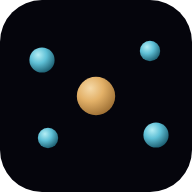
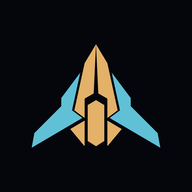
Replace five-point mark with the vessel symbol across the site
New primary mark (geometric top-down ship, turquoise wings, copper hull),
validated by David 2026-09-29. Nav logo swapped on all 7 pages (flat vector,
pixel-identical to the approved SVG); unused dimensional gradient defs removed.
Regenerated favicon.ico (16/32/48), favicon-mark.svg, apple-touch-icon,
icon-192/512 from the same SVG. og-image.png rebuilt too: it still showed the
old violet five dots and the retired "Full-Context Automation Software" line.

diff --git a/about.html b/about.html
@@ -16,24 +16,6 @@
 <link rel="manifest" href="/site.webmanifest">
 </head>
 <body>
-<svg width="0" height="0" style="position:absolute" aria-hidden="true"><defs>
-<radialGradient id="dim-ion" cx="35%" cy="30%" r="75%">
-<stop offset="0%" stop-color="#B4EEF5"/>
-<stop offset="45%" stop-color="#5FC0D6"/>
-<stop offset="100%" stop-color="#1B5C6E"/>
-</radialGradient>
-<radialGradient id="dim-flare" cx="35%" cy="30%" r="75%">
-<stop offset="0%" stop-color="#F5D9A8"/>
-<stop offset="45%" stop-color="#E3B168"/>
-<stop offset="100%" stop-color="#9C6E33"/>
-</radialGradient>
-<filter id="mark-shadow" x="-80%" y="-80%" width="260%" height="260%">
-<feDropShadow dx="0" dy="0.45" stdDeviation="0.5" flood-color="#000000" flood-opacity="0.55"/>
-</filter>
-<filter id="mark-shadow-lg" x="-80%" y="-80%" width="260%" height="260%">
-<feDropShadow dx="0" dy="0.7" stdDeviation="0.8" flood-color="#000000" flood-opacity="0.6"/>
-</filter>
-</defs></svg>
 
 
 
@@ -769,7 +751,7 @@ footer.site .manifesto-link:hover{ color:var(--flare); border-color:var(--flare)
 
 <header class="nav">
   <div class="wrap">
-    <a href="/" class="brand"><svg class="mark" width="18" height="18" viewBox="0 0 32 32" aria-hidden="true"><g fill="url(#dim-ion)" filter="url(#mark-shadow)"><circle cx="7" cy="10" r="2.1"/><circle cx="25" cy="8.5" r="1.7"/><circle cx="8" cy="23" r="1.7"/><circle cx="26" cy="22.5" r="2.1"/></g><circle cx="16" cy="16" r="3.2" fill="url(#dim-flare)" filter="url(#mark-shadow-lg)"/></svg><span>CypherShip<span style="color:var(--text-2)"> Labs</span></span></a>
+    <a href="/" class="brand"><svg class="mark" width="18" height="18" viewBox="177 49 900 900" aria-hidden="true"><path fill="#5FC0D6" d="M524.47 347 401 512 401 565 226 740 208 836 538 642 471 592Z"/><path fill="#5FC0D6" d="M729.53 347 853 512 853 565 1028 740 1046 836 716 642 783 592Z"/><path fill="#E3B168" d="M627 162 553 285 486 592 553 642 553 516 612 482Z"/><path fill="#E3B168" d="M627 162 701 285 768 592 701 642 701 516 642 482Z"/><path fill="#E3B168" d="M627 526 681 558 681 792 627 826 573 792 573 558Z"/><path fill="#E3B168" d="M553 659 459.44 714 553 826Z"/><path fill="#E3B168" d="M701 659 794.56 714 701 826Z"/></svg><span>CypherShip<span style="color:var(--text-2)"> Labs</span></span></a>
     <nav class="links">
       <a href="/">Home</a>
       <a href="/products.html">CypherShip Fleet</a>

diff --git a/agentic.html b/agentic.html
@@ -16,24 +16,6 @@
 <link rel="manifest" href="/site.webmanifest">
 </head>
 <body>
-<svg width="0" height="0" style="position:absolute" aria-hidden="true"><defs>
-<radialGradient id="dim-ion" cx="35%" cy="30%" r="75%">
-<stop offset="0%" stop-color="#B4EEF5"/>
-<stop offset="45%" stop-color="#5FC0D6"/>
-<stop offset="100%" stop-color="#1B5C6E"/>
-</radialGradient>
-<radialGradient id="dim-flare" cx="35%" cy="30%" r="75%">
-<stop offset="0%" stop-color="#F5D9A8"/>
-<stop offset="45%" stop-color="#E3B168"/>
-<stop offset="100%" stop-color="#9C6E33"/>
-</radialGradient>
-<filter id="mark-shadow" x="-80%" y="-80%" width="260%" height="260%">
-<feDropShadow dx="0" dy="0.45" stdDeviation="0.5" flood-color="#000000" flood-opacity="0.55"/>
-</filter>
-<filter id="mark-shadow-lg" x="-80%" y="-80%" width="260%" height="260%">
-<feDropShadow dx="0" dy="0.7" stdDeviation="0.8" flood-color="#000000" flood-opacity="0.6"/>
-</filter>
-</defs></svg>
 
 
 
@@ -804,7 +786,7 @@ footer.site .manifesto-link:hover{ color:var(--flare); border-color:var(--flare)
 
 <header class="nav">
   <div class="wrap">
-    <a href="/" class="brand"><svg class="mark" width="18" height="18" viewBox="0 0 32 32" aria-hidden="true"><g fill="url(#dim-ion)" filter="url(#mark-shadow)"><circle cx="7" cy="10" r="2.1"/><circle cx="25" cy="8.5" r="1.7"/><circle cx="8" cy="23" r="1.7"/><circle cx="26" cy="22.5" r="2.1"/></g><circle cx="16" cy="16" r="3.2" fill="url(#dim-flare)" filter="url(#mark-shadow-lg)"/></svg><span>CypherShip<span style="color:var(--text-2)"> Labs</span></span></a>
+    <a href="/" class="brand"><svg class="mark" width="18" height="18" viewBox="177 49 900 900" aria-hidden="true"><path fill="#5FC0D6" d="M524.47 347 401 512 401 565 226 740 208 836 538 642 471 592Z"/><path fill="#5FC0D6" d="M729.53 347 853 512 853 565 1028 740 1046 836 716 642 783 592Z"/><path fill="#E3B168" d="M627 162 553 285 486 592 553 642 553 516 612 482Z"/><path fill="#E3B168" d="M627 162 701 285 768 592 701 642 701 516 642 482Z"/><path fill="#E3B168" d="M627 526 681 558 681 792 627 826 573 792 573 558Z"/><path fill="#E3B168" d="M553 659 459.44 714 553 826Z"/><path fill="#E3B168" d="M701 659 794.56 714 701 826Z"/></svg><span>CypherShip<span style="color:var(--text-2)"> Labs</span></span></a>
     <nav class="links">
       <a href="/">Home</a>
       <a href="/products.html">CypherShip Fleet</a>

diff --git a/contact.html b/contact.html
@@ -16,24 +16,6 @@
 <link rel="manifest" href="/site.webmanifest">
 </head>
 <body>
-<svg width="0" height="0" style="position:absolute" aria-hidden="true"><defs>
-<radialGradient id="dim-ion" cx="35%" cy="30%" r="75%">
-<stop offset="0%" stop-color="#B4EEF5"/>
-<stop offset="45%" stop-color="#5FC0D6"/>
-<stop offset="100%" stop-color="#1B5C6E"/>
-</radialGradient>
-<radialGradient id="dim-flare" cx="35%" cy="30%" r="75%">
-<stop offset="0%" stop-color="#F5D9A8"/>
-<stop offset="45%" stop-color="#E3B168"/>
-<stop offset="100%" stop-color="#9C6E33"/>
-</radialGradient>
-<filter id="mark-shadow" x="-80%" y="-80%" width="260%" height="260%">
-<feDropShadow dx="0" dy="0.45" stdDeviation="0.5" flood-color="#000000" flood-opacity="0.55"/>
-</filter>
-<filter id="mark-shadow-lg" x="-80%" y="-80%" width="260%" height="260%">
-<feDropShadow dx="0" dy="0.7" stdDeviation="0.8" flood-color="#000000" flood-opacity="0.6"/>
-</filter>
-</defs></svg>
 
 
 
@@ -760,7 +742,7 @@ footer.site .manifesto-link:hover{ color:var(--flare); border-color:var(--flare)
 
 <header class="nav">
   <div class="wrap">
-    <a href="/" class="brand"><svg class="mark" width="18" height="18" viewBox="0 0 32 32" aria-hidden="true"><g fill="url(#dim-ion)" filter="url(#mark-shadow)"><circle cx="7" cy="10" r="2.1"/><circle cx="25" cy="8.5" r="1.7"/><circle cx="8" cy="23" r="1.7"/><circle cx="26" cy="22.5" r="2.1"/></g><circle cx="16" cy="16" r="3.2" fill="url(#dim-flare)" filter="url(#mark-shadow-lg)"/></svg><span>CypherShip<span style="color:var(--text-2)"> Labs</span></span></a>
+    <a href="/" class="brand"><svg class="mark" width="18" height="18" viewBox="177 49 900 900" aria-hidden="true"><path fill="#5FC0D6" d="M524.47 347 401 512 401 565 226 740 208 836 538 642 471 592Z"/><path fill="#5FC0D6" d="M729.53 347 853 512 853 565 1028 740 1046 836 716 642 783 592Z"/><path fill="#E3B168" d="M627 162 553 285 486 592 553 642 553 516 612 482Z"/><path fill="#E3B168" d="M627 162 701 285 768 592 701 642 701 516 642 482Z"/><path fill="#E3B168" d="M627 526 681 558 681 792 627 826 573 792 573 558Z"/><path fill="#E3B168" d="M553 659 459.44 714 553 826Z"/><path fill="#E3B168" d="M701 659 794.56 714 701 826Z"/></svg><span>CypherShip<span style="color:var(--text-2)"> Labs</span></span></a>
     <nav class="links">
       <a href="/">Home</a>
       <a href="/products.html">CypherShip Fleet</a>

diff --git a/legal.html b/legal.html
@@ -16,24 +16,6 @@
 <link rel="manifest" href="/site.webmanifest">
 </head>
 <body>
-<svg width="0" height="0" style="position:absolute" aria-hidden="true"><defs>
-<radialGradient id="dim-ion" cx="35%" cy="30%" r="75%">
-<stop offset="0%" stop-color="#B4EEF5"/>
-<stop offset="45%" stop-color="#5FC0D6"/>
-<stop offset="100%" stop-color="#1B5C6E"/>
-</radialGradient>
-<radialGradient id="dim-flare" cx="35%" cy="30%" r="75%">
-<stop offset="0%" stop-color="#F5D9A8"/>
-<stop offset="45%" stop-color="#E3B168"/>
-<stop offset="100%" stop-color="#9C6E33"/>
-</radialGradient>
-<filter id="mark-shadow" x="-80%" y="-80%" width="260%" height="260%">
-<feDropShadow dx="0" dy="0.45" stdDeviation="0.5" flood-color="#000000" flood-opacity="0.55"/>
-</filter>
-<filter id="mark-shadow-lg" x="-80%" y="-80%" width="260%" height="260%">
-<feDropShadow dx="0" dy="0.7" stdDeviation="0.8" flood-color="#000000" flood-opacity="0.6"/>
-</filter>
-</defs></svg>
 
 
 
@@ -760,7 +742,7 @@ footer.site .manifesto-link:hover{ color:var(--flare); border-color:var(--flare)
 
 <header class="nav">
   <div class="wrap">
-    <a href="/" class="brand"><svg class="mark" width="18" height="18" viewBox="0 0 32 32" aria-hidden="true"><g fill="url(#dim-ion)" filter="url(#mark-shadow)"><circle cx="7" cy="10" r="2.1"/><circle cx="25" cy="8.5" r="1.7"/><circle cx="8" cy="23" r="1.7"/><circle cx="26" cy="22.5" r="2.1"/></g><circle cx="16" cy="16" r="3.2" fill="url(#dim-flare)" filter="url(#mark-shadow-lg)"/></svg><span>CypherShip<span style="color:var(--text-2)"> Labs</span></span></a>
+    <a href="/" class="brand"><svg class="mark" width="18" height="18" viewBox="177 49 900 900" aria-hidden="true"><path fill="#5FC0D6" d="M524.47 347 401 512 401 565 226 740 208 836 538 642 471 592Z"/><path fill="#5FC0D6" d="M729.53 347 853 512 853 565 1028 740 1046 836 716 642 783 592Z"/><path fill="#E3B168" d="M627 162 553 285 486 592 553 642 553 516 612 482Z"/><path fill="#E3B168" d="M627 162 701 285 768 592 701 642 701 516 642 482Z"/><path fill="#E3B168" d="M627 526 681 558 681 792 627 826 573 792 573 558Z"/><path fill="#E3B168" d="M553 659 459.44 714 553 826Z"/><path fill="#E3B168" d="M701 659 794.56 714 701 826Z"/></svg><span>CypherShip<span style="color:var(--text-2)"> Labs</span></span></a>
     <nav class="links">
       <a href="/">Home</a>
       <a href="/products.html">CypherShip Fleet</a>

diff --git a/index.html b/index.html
@@ -33,24 +33,6 @@
 </script>
 </head>
 <body>
-<svg width="0" height="0" style="position:absolute" aria-hidden="true"><defs>
-<radialGradient id="dim-ion" cx="35%" cy="30%" r="75%">
-<stop offset="0%" stop-color="#B4EEF5"/>
-<stop offset="45%" stop-color="#5FC0D6"/>
-<stop offset="100%" stop-color="#1B5C6E"/>
-</radialGradient>
-<radialGradient id="dim-flare" cx="35%" cy="30%" r="75%">
-<stop offset="0%" stop-color="#F5D9A8"/>
-<stop offset="45%" stop-color="#E3B168"/>
-<stop offset="100%" stop-color="#9C6E33"/>
-</radialGradient>
-<filter id="mark-shadow" x="-80%" y="-80%" width="260%" height="260%">
-<feDropShadow dx="0" dy="0.45" stdDeviation="0.5" flood-color="#000000" flood-opacity="0.55"/>
-</filter>
-<filter id="mark-shadow-lg" x="-80%" y="-80%" width="260%" height="260%">
-<feDropShadow dx="0" dy="0.7" stdDeviation="0.8" flood-color="#000000" flood-opacity="0.6"/>
-</filter>
-</defs></svg>
 
 
 
@@ -697,7 +679,7 @@ footer.site .manifesto-link:hover{ color:var(--flare); border-color:var(--flare)
 
 <header class="nav">
   <div class="wrap">
-    <a href="#" class="brand"><svg class="mark" width="18" height="18" viewBox="0 0 32 32" aria-hidden="true"><g fill="url(#dim-ion)" filter="url(#mark-shadow)"><circle cx="7" cy="10" r="2.1"/><circle cx="25" cy="8.5" r="1.7"/><circle cx="8" cy="23" r="1.7"/><circle cx="26" cy="22.5" r="2.1"/></g><circle cx="16" cy="16" r="3.2" fill="url(#dim-flare)" filter="url(#mark-shadow-lg)"/></svg><span>CypherShip<span style="color:var(--text-2)"> Labs</span></span></a>
+    <a href="#" class="brand"><svg class="mark" width="18" height="18" viewBox="177 49 900 900" aria-hidden="true"><path fill="#5FC0D6" d="M524.47 347 401 512 401 565 226 740 208 836 538 642 471 592Z"/><path fill="#5FC0D6" d="M729.53 347 853 512 853 565 1028 740 1046 836 716 642 783 592Z"/><path fill="#E3B168" d="M627 162 553 285 486 592 553 642 553 516 612 482Z"/><path fill="#E3B168" d="M627 162 701 285 768 592 701 642 701 516 642 482Z"/><path fill="#E3B168" d="M627 526 681 558 681 792 627 826 573 792 573 558Z"/><path fill="#E3B168" d="M553 659 459.44 714 553 826Z"/><path fill="#E3B168" d="M701 659 794.56 714 701 826Z"/></svg><span>CypherShip<span style="color:var(--text-2)"> Labs</span></span></a>
     <nav class="links">
       <a href="/products.html">CypherShip Fleet</a>
       <a href="/agentic.html">CypherShip Studio</a>

diff --git a/products.html b/products.html
@@ -55,24 +55,6 @@
 </script>
 </head>
 <body>
-<svg width="0" height="0" style="position:absolute" aria-hidden="true"><defs>
-<radialGradient id="dim-ion" cx="35%" cy="30%" r="75%">
-<stop offset="0%" stop-color="#B4EEF5"/>
-<stop offset="45%" stop-color="#5FC0D6"/>
-<stop offset="100%" stop-color="#1B5C6E"/>
-</radialGradient>
-<radialGradient id="dim-flare" cx="35%" cy="30%" r="75%">
-<stop offset="0%" stop-color="#F5D9A8"/>
-<stop offset="45%" stop-color="#E3B168"/>
-<stop offset="100%" stop-color="#9C6E33"/>
-</radialGradient>
-<filter id="mark-shadow" x="-80%" y="-80%" width="260%" height="260%">
-<feDropShadow dx="0" dy="0.45" stdDeviation="0.5" flood-color="#000000" flood-opacity="0.55"/>
-</filter>
-<filter id="mark-shadow-lg" x="-80%" y="-80%" width="260%" height="260%">
-<feDropShadow dx="0" dy="0.7" stdDeviation="0.8" flood-color="#000000" flood-opacity="0.6"/>
-</filter>
-</defs></svg>
 
 
 
@@ -847,7 +829,7 @@ footer.site .manifesto-link:hover{ color:var(--flare); border-color:var(--flare)
 
 <header class="nav">
   <div class="wrap">
-    <a href="/" class="brand"><svg class="mark" width="18" height="18" viewBox="0 0 32 32" aria-hidden="true"><g fill="url(#dim-ion)" filter="url(#mark-shadow)"><circle cx="7" cy="10" r="2.1"/><circle cx="25" cy="8.5" r="1.7"/><circle cx="8" cy="23" r="1.7"/><circle cx="26" cy="22.5" r="2.1"/></g><circle cx="16" cy="16" r="3.2" fill="url(#dim-flare)" filter="url(#mark-shadow-lg)"/></svg><span>CypherShip<span style="color:var(--text-2)"> Labs</span></span></a>
+    <a href="/" class="brand"><svg class="mark" width="18" height="18" viewBox="177 49 900 900" aria-hidden="true"><path fill="#5FC0D6" d="M524.47 347 401 512 401 565 226 740 208 836 538 642 471 592Z"/><path fill="#5FC0D6" d="M729.53 347 853 512 853 565 1028 740 1046 836 716 642 783 592Z"/><path fill="#E3B168" d="M627 162 553 285 486 592 553 642 553 516 612 482Z"/><path fill="#E3B168" d="M627 162 701 285 768 592 701 642 701 516 642 482Z"/><path fill="#E3B168" d="M627 526 681 558 681 792 627 826 573 792 573 558Z"/><path fill="#E3B168" d="M553 659 459.44 714 553 826Z"/><path fill="#E3B168" d="M701 659 794.56 714 701 826Z"/></svg><span>CypherShip<span style="color:var(--text-2)"> Labs</span></span></a>
     <nav class="links">
       <a href="/">Home</a>
       <a href="/agentic.html">CypherShip Studio</a>

diff --git a/manifesto.html b/manifesto.html
@@ -16,24 +16,6 @@
 <link rel="manifest" href="/site.webmanifest">
 </head>
 <body>
-<svg width="0" height="0" style="position:absolute" aria-hidden="true"><defs>
-<radialGradient id="dim-ion" cx="35%" cy="30%" r="75%">
-<stop offset="0%" stop-color="#B4EEF5"/>
-<stop offset="45%" stop-color="#5FC0D6"/>
-<stop offset="100%" stop-color="#1B5C6E"/>
-</radialGradient>
-<radialGradient id="dim-flare" cx="35%" cy="30%" r="75%">
-<stop offset="0%" stop-color="#F5D9A8"/>
-<stop offset="45%" stop-color="#E3B168"/>
-<stop offset="100%" stop-color="#9C6E33"/>
-</radialGradient>
-<filter id="mark-shadow" x="-80%" y="-80%" width="260%" height="260%">
-<feDropShadow dx="0" dy="0.45" stdDeviation="0.5" flood-color="#000000" flood-opacity="0.55"/>
-</filter>
-<filter id="mark-shadow-lg" x="-80%" y="-80%" width="260%" height="260%">
-<feDropShadow dx="0" dy="0.7" stdDeviation="0.8" flood-color="#000000" flood-opacity="0.6"/>
-</filter>
-</defs></svg>
 
 
 
@@ -213,7 +195,7 @@ section.principles{ position:relative; z-index:1; padding:1rem 0 4rem; }
 <header class="top">
   <div class="wrap">
     <a class="brand" href="/">
-      <svg class="mark" width="18" height="18" viewBox="0 0 32 32" aria-hidden="true"><g fill="url(#dim-ion)" filter="url(#mark-shadow)"><circle cx="7" cy="10" r="2.1"/><circle cx="25" cy="8.5" r="1.7"/><circle cx="8" cy="23" r="1.7"/><circle cx="26" cy="22.5" r="2.1"/></g><circle cx="16" cy="16" r="3.2" fill="url(#dim-flare)" filter="url(#mark-shadow-lg)"/></svg>
+      <svg class="mark" width="18" height="18" viewBox="177 49 900 900" aria-hidden="true"><path fill="#5FC0D6" d="M524.47 347 401 512 401 565 226 740 208 836 538 642 471 592Z"/><path fill="#5FC0D6" d="M729.53 347 853 512 853 565 1028 740 1046 836 716 642 783 592Z"/><path fill="#E3B168" d="M627 162 553 285 486 592 553 642 553 516 612 482Z"/><path fill="#E3B168" d="M627 162 701 285 768 592 701 642 701 516 642 482Z"/><path fill="#E3B168" d="M627 526 681 558 681 792 627 826 573 792 573 558Z"/><path fill="#E3B168" d="M553 659 459.44 714 553 826Z"/><path fill="#E3B168" d="M701 659 794.56 714 701 826Z"/></svg>
       <span class="brand-word">CypherShip<span> Labs</span></span>
     </a>
   </div>
